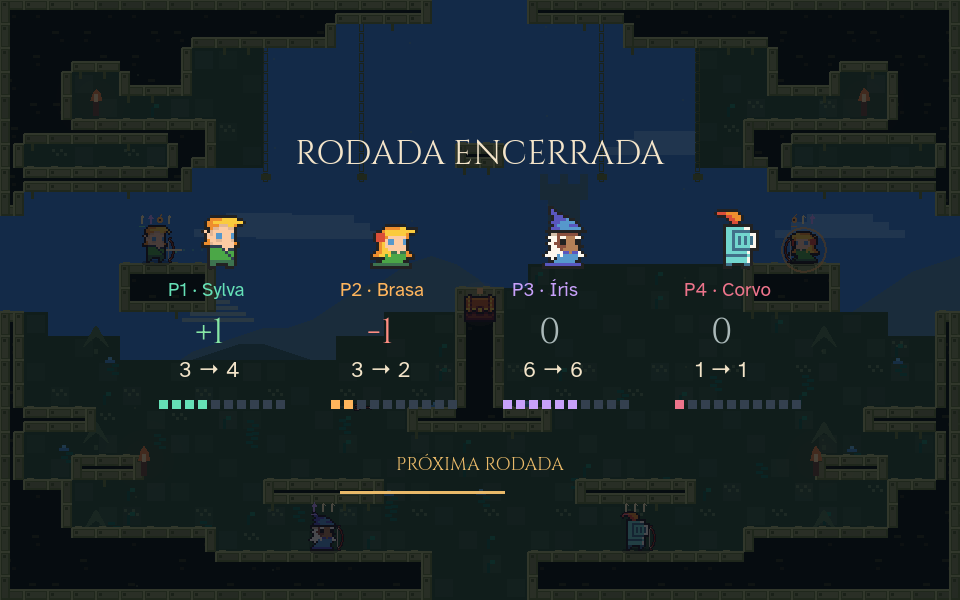
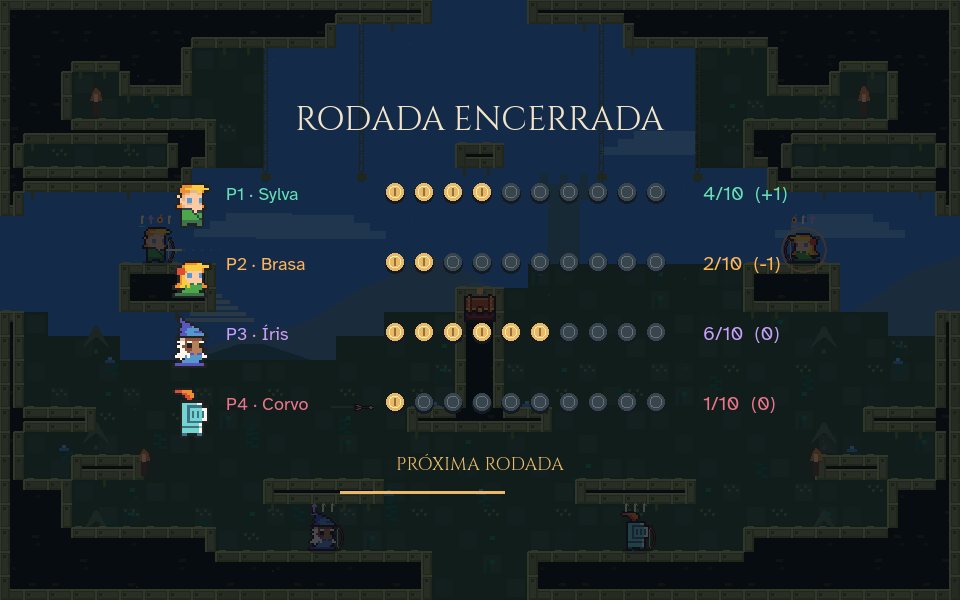
Add round-end coin progression, final-action replay and stronger arrow gravity

diff --git a/README.md b/README.md
@@ -69,8 +69,8 @@ Selecione o arqueiro e a arena no menu antes de começar.
 2. A contagem termina e o combate começa, sem placar ocupando a tela.
 3. Cada eliminação soma um ponto ao atacante. Autoeliminação tira um ponto, sem total negativo.
 4. A rodada termina quando resta no máximo um jogador vivo.
-5. O placar mostra o saldo de cada um (`+1`, `−1`, `0` etc.) e a mudança do total.
-6. Após 3,4 segundos, começa a próxima rodada. Ao chegar a dez pontos, aparece o resultado final.
+5. Um replay visual de dois segundos reapresenta até 1,5 segundo da jogada final. Depois, cada retrato aparece ao lado de dez moedas: elas são preenchidas ou removidas uma a uma conforme os pontos ganhos ou perdidos.
+6. Após os 3,4 segundos do placar, começa a próxima rodada. Ao chegar a dez pontos, aparece o resultado final.
 
 Após 40 segundos de combate, uma névoa fecha as laterais para evitar impasses.
 
@@ -121,6 +121,8 @@ Desconectar um controle abre o menu. No jogo local, isso pausa; online, os demai
 | Normal | Haste clara | Para no cenário; pode ser recolhida |
 | Perfurante | Ponta triangular roxa | Atravessa o cenário |
 | Explosiva | Bomba laranja | Detona sob comando; pode atingir o próprio dono |
+
+As flechas têm gravidade: o disparo perde altura ao longo do voo. Uma flecha atirada para cima pode cair sobre o próprio dono e eliminá-lo, descontando um ponto (mínimo zero). O dash ainda pode capturá-la.
 
 Capacidade máxima: **seis flechas**. A próxima fica sublinhada. Coleta e captura preservam o tipo; baús dão duas especiais. Encoste em uma flecha parada para recolhê-la, se houver espaço. Jogadores eliminados deixam a munição restante.
 
@@ -187,12 +189,13 @@ godot --headless --path . --script tests/inventory_wrap.gd
 godot --headless --path . --script tests/wall_pickup.gd
 godot --headless --path . --script tests/round_flow.gd
 godot --headless --path . --script tests/corners.gd
+godot --headless --path . --script tests/replay_ballistics.gd
 godot --headless --path . --script tests/gamepad.gd
 godot --headless --path . --script tests/ui_click.gd
 python3 tests/network.py /caminho/para/godot
 ```
 
-**Validação registrada:** 105 verificações de mecânicas/controle, clique de interface e host + três clientes ENet em localhost. Veja [resultados e limitações](docs/VALIDATION.md).
+**Validação registrada:** 111 verificações de mecânicas/controle, clique de interface e host + três clientes ENet em localhost. Veja [resultados e limitações](docs/VALIDATION.md).
 
 Não validados: internet pública, perda/jitter, controles físicos, builds exportadas e balanceamento prolongado.
 
@@ -216,3 +219,5 @@ As capturas usam uma cena de demonstração para apresentar inventários e resul
 [Créditos e licenças dos assets](assets/licenses/CREDITS.md) · [Pesquisa do jogo](docs/RESEARCH.md) · [Código aberto estudado](docs/OPEN_SOURCE.md) · [Direção visual](DESIGN.md)
 
 As licenças de terceiros estão preservadas em `assets/licenses/`. Nenhuma licença geral de redistribuição foi definida para o código autoral neste repositório.
+
+O replay é uma reprodução visual do histórico local, também nos clientes online; não recalcula dano e não é rollback de rede. O vídeo demonstrativo acima foi gravado antes da atualização de moedas/replay; as capturas estáticas mostram o placar atual.

diff --git a/docs/VALIDATION.md b/docs/VALIDATION.md
@@ -20,3 +20,7 @@ A nova composição usa uma grade de 24 px para desenho e colisão. Capturas atu
 ## Controle
 
 Doze verificações adicionais em `tests/gamepad.gd` passaram: atribuição sem/um/dois controles, deadzone, mira independente, botões, gatilho, D-pad, confirmação de menu por evento de controle, pausa/retomada e desconexão. Mecânicas existentes e clique de mouse foram revalidados. Os testes usam dados e eventos sintetizados, sem controle físico conectado; compatibilidade de modelos e Bluetooth/USB ainda depende de validação física.
+
+## Moedas, balística e replay
+
+Seis verificações adicionais passaram em `tests/replay_ballistics.gd`: subida/queda natural, autoeliminação com perda de ponto, histórico limitado, avanço do replay, ausência de mutação de pontuação e limpeza entre rodadas. Combate, inventário/wrap e fluxo de rodadas foram revalidados. O teste ENet agora encerra uma rodada e exige replay disponível no host e nos três clientes: todos passaram. Capturas `round-score.png` e `round-replay.png` conferidas. O replay utiliza estados visuais locais; não sincroniza um arquivo de replay completo e não implementa rollback.
